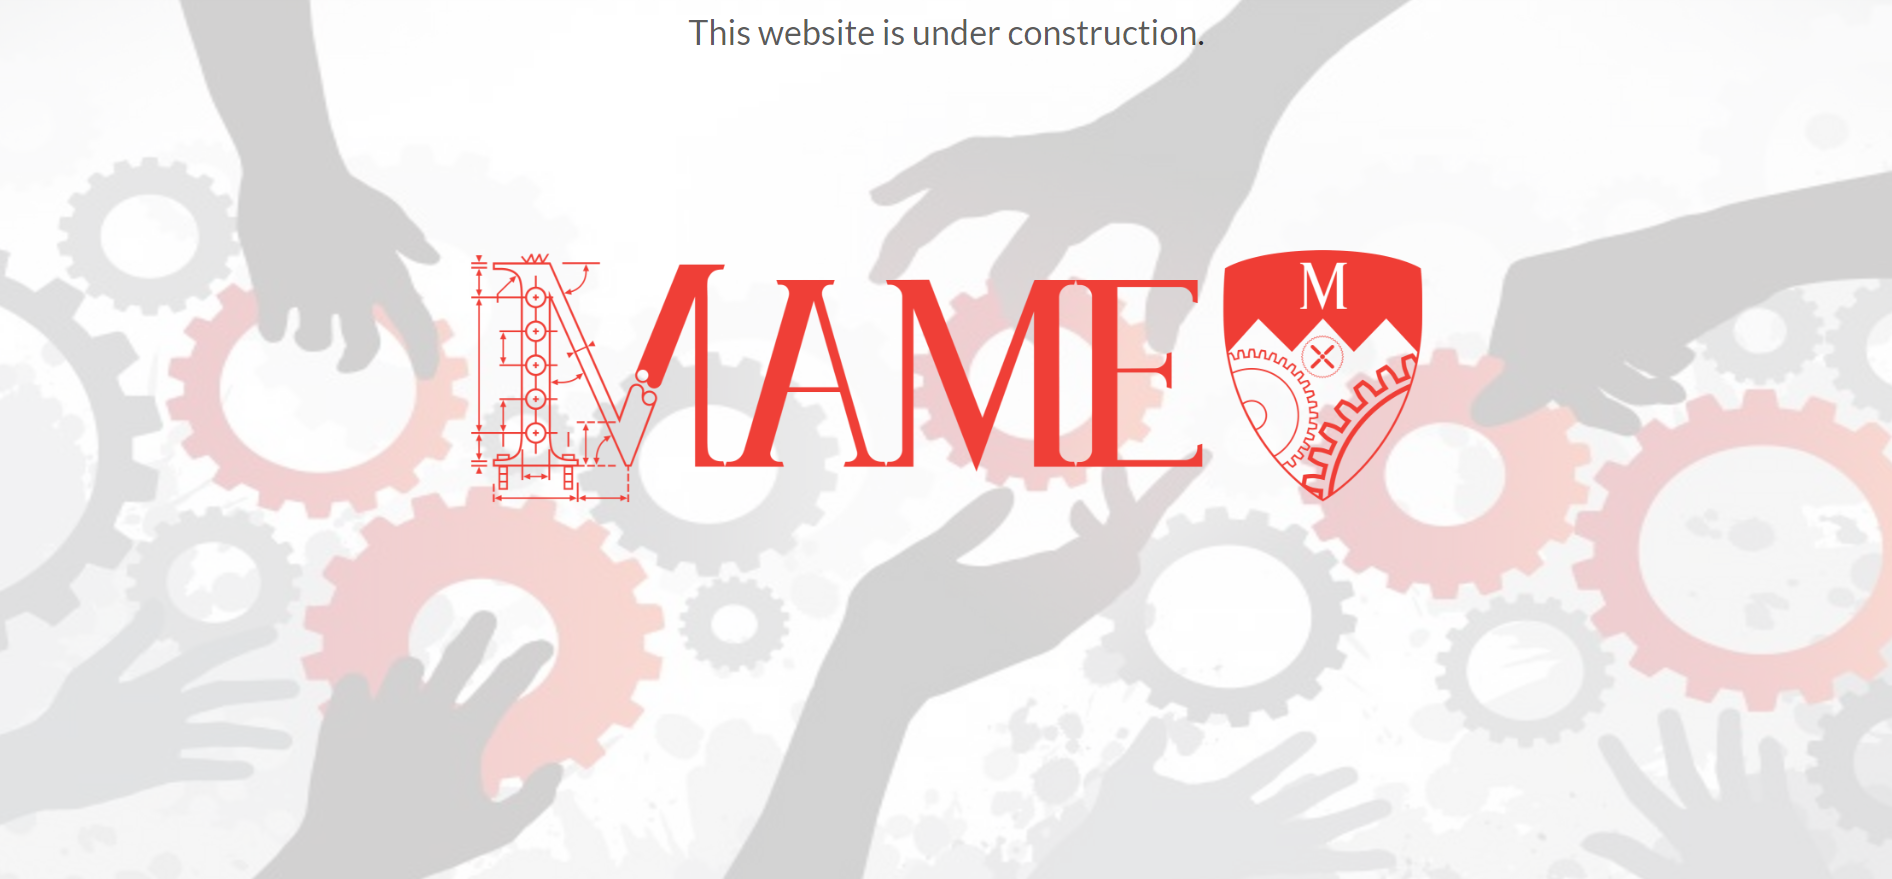
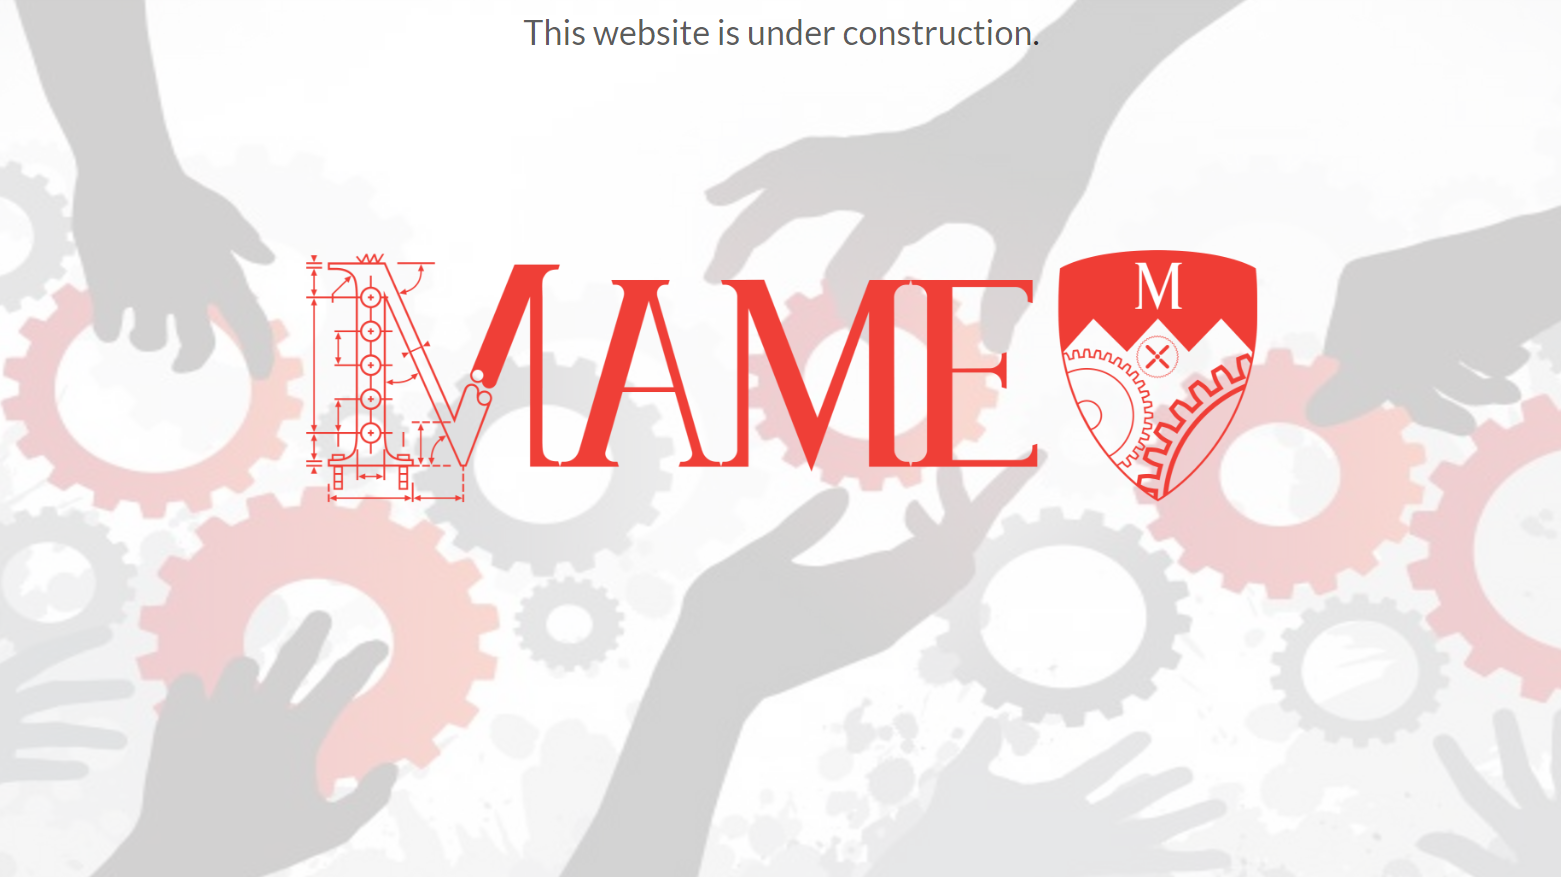
fix home carousel having hard-capped size for images

diff --git a/css/mainKev.css b/css/mainKev.css
@@ -11,7 +11,6 @@
 }
 
 .flex-contained {
-    padding: 10px;
     flex: 1;
     display: inline-flex;
 }
@@ -275,12 +274,15 @@ h1 {
     padding-right: 15px;
 }
 
-
+/*designGrid needs to be a positioned element for the later elements to get its width*/
 .designGrid {
-    display: inline-block;
-    overflow: hidden;
     position: relative;
+    overflow: hidden;
     padding-top: 20px;
+    width: 100%;
+    min-width: 400px;
+    max-width: 33.33%;
+    height: 500px;
 }
 
 .designGrid div {
@@ -290,14 +292,12 @@ h1 {
     opacity: 0;
     transition: all 0.4s ease-in-out;
     -webkit-transition: all 0.4s ease-in-out;
-    height: 500px;
+    height: 100%;
     width: 100%;
 }
 
 .designGrid img {
     display: block;
-    /*margin: 0 auto;*/
-    height: 500px;
     width: 100%;
     transition: all 0.4s ease-in-out;
     -webkit-transition: all 0.4s ease-in-out;
@@ -308,11 +308,11 @@ h1 {
     height: 500px;
     width: 100%;
 }
-
+/*
 .designGrid img:hover img {
     opacity: 0.025;
 }
-
+*/
 .designGrid h3 {
     font-family: 'Montserrat', sans-serif;
     text-align: center;
@@ -327,11 +327,11 @@ h1 {
     text-align-last: center;
     padding: 10px 20px 20px 20px;
 }
-
+/*
 .designGrid b {
     font-size: 13px;
     text-decoration: underline;
-}
+}*/
 
 /*----------------------------Design Teams-----------------------------------*/
 
@@ -505,6 +505,13 @@ label {
 }*/
 
 /* Bottom Part of Home Page Stuff Here: */
+
+.carousel {
+    height: 40vw;
+    -webkit-perspective: 67.44vw;
+            perspective: 67.44vw;
+
+}
 
 .newsletter img {
     max-height: 300px;
